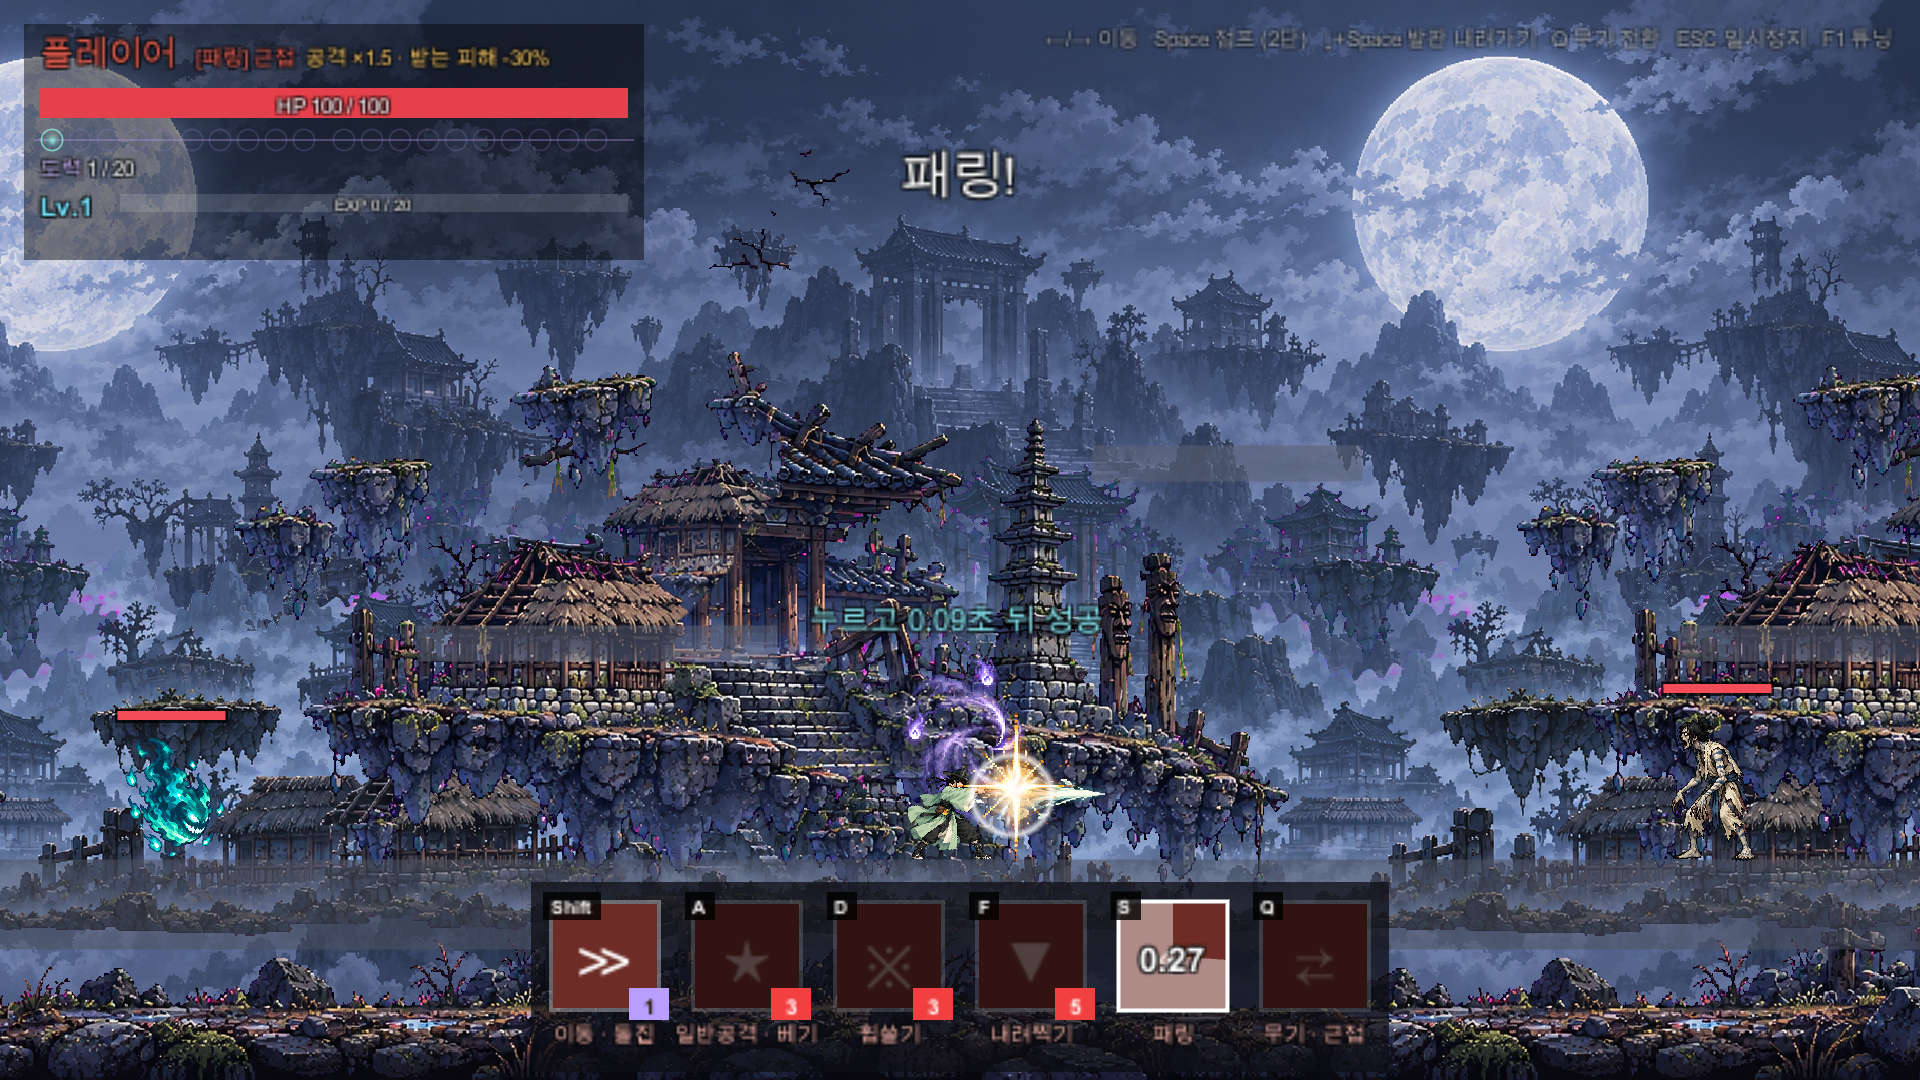
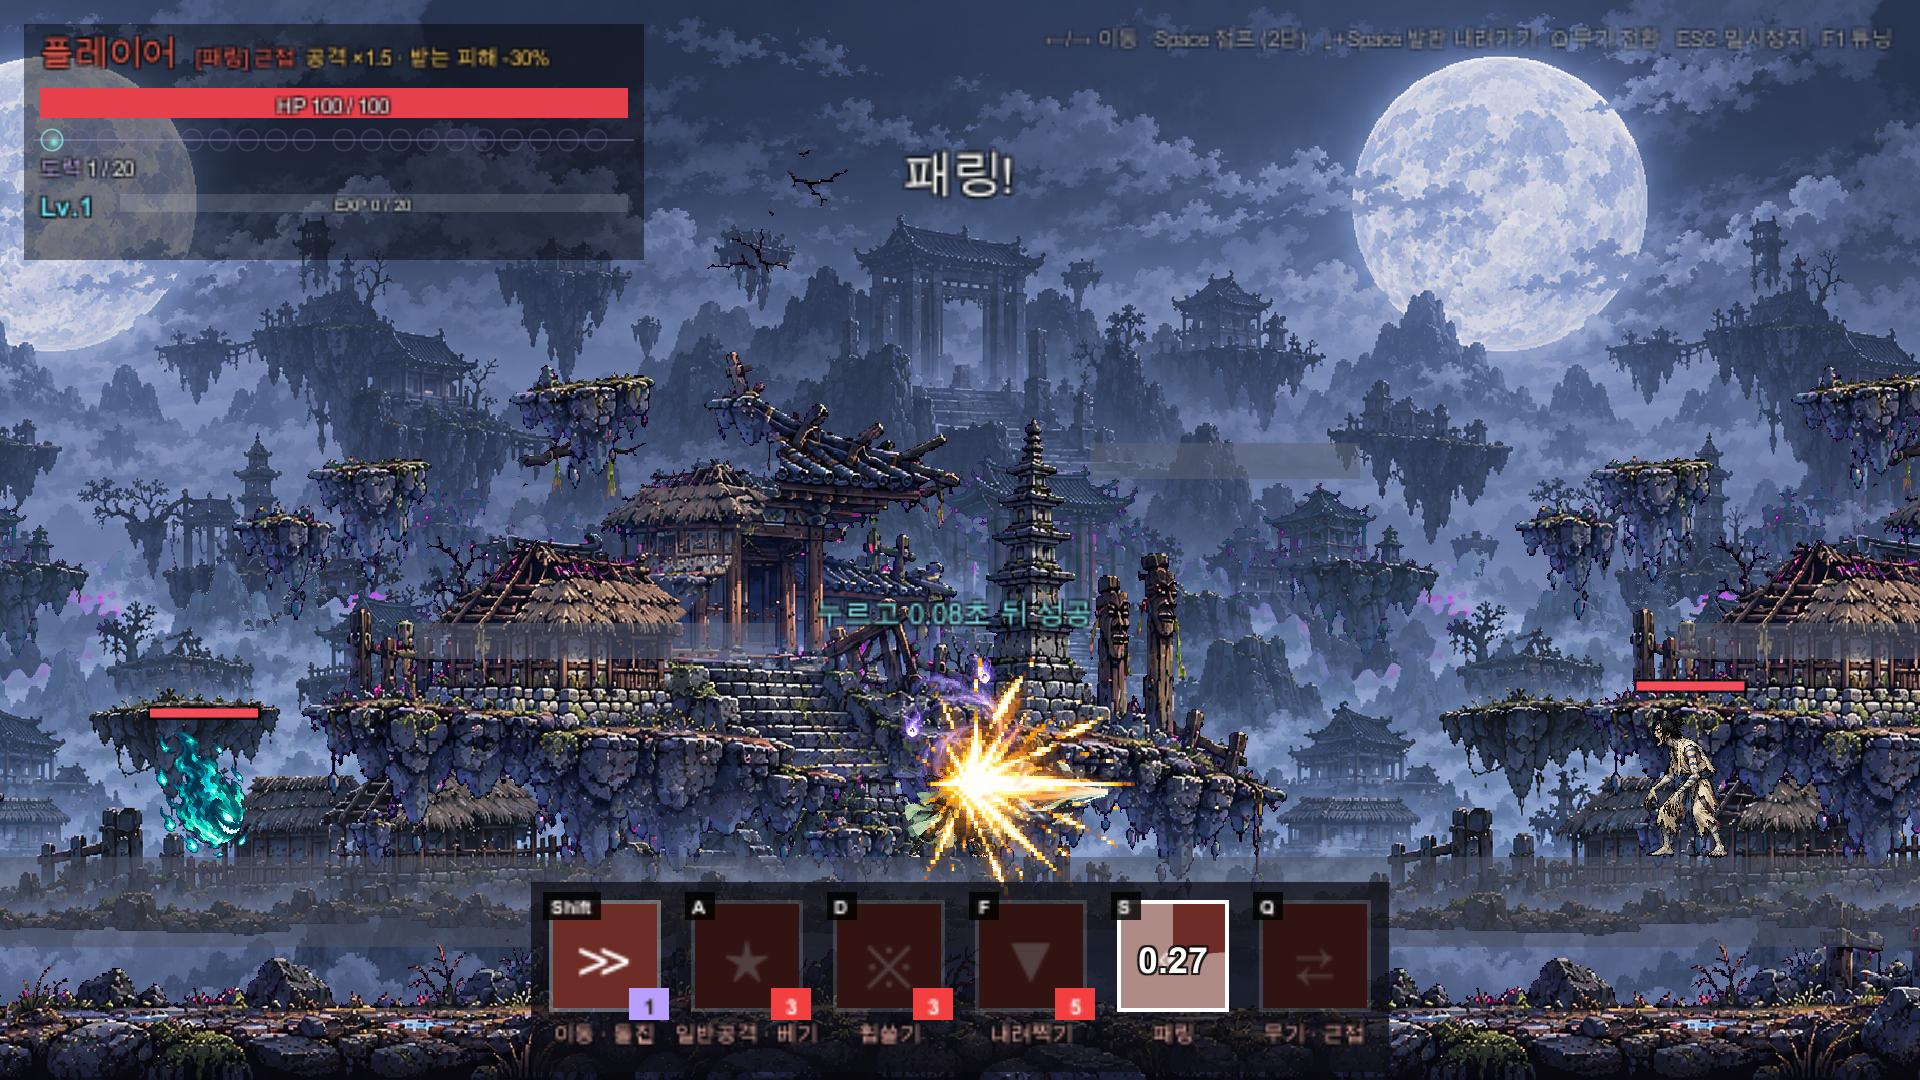
패링 이펙트 수정

diff --git a/Assets/Scripts/Player/PlayerCombat.cs b/Assets/Scripts/Player/PlayerCombat.cs
@@ -232,11 +232,9 @@ namespace ParryRL
         {
             Sfx.Play(perfect ? SfxId.PerfectParry : heavy ? SfxId.HeavyParry : SfxId.Parry);
             if (HitFeel.Instance != null) HitFeel.Instance.ParrySuccess(heavy);
-            Fx.Flash(hitPoint, heavy ? 1.2f : 0.7f, heavy ? 3.2f : 1.8f, Color.white, heavy ? 0.16f : 0.1f);
-            Fx.Ring(hitPoint, Color.white, 0.4f, heavy ? 3.5f : 2f, heavy ? 0.16f : 0.1f, heavy ? 0.3f : 0.2f);
             Fx.Sparks(hitPoint, heavy ? new Color(1f, 0.85f, 0.3f) : Color.white, heavy ? 22 : 12, heavy ? 12f : 8f);
             var art = GameAssets.AttackFx;
-            if (art != null) FxClip.PlayAt(IsRanged ? art.parryRanged : art.parryMelee, hitPoint, heavy ? 0.95f : 0.65f, false, 46);
+            if (art != null) FxClip.PlayAt(IsRanged ? art.parryRanged : art.parryMelee, hitPoint, heavy ? 1.5f : 1.05f, false, 46); // 둥근 섬광·고리 대신 패링 그림이 성공 이펙트
             // 성공 연출: 플레이어 몸 주변에 요기 흡수 (플레이어 뒤쪽 레이어)
             if (art != null) FxClip.PlayAt(art.yogiAbsorb, transform.position + Vector3.up * 0.7f, heavy ? 0.9f : 0.7f, false, 8);
             if (heavy) Hud.ScreenFlash(new Color(1f, 1f, 1f, 0.35f));

diff --git a/Assets/Scripts/Combat/SuccessEffects.cs b/Assets/Scripts/Combat/SuccessEffects.cs
@@ -51,7 +51,6 @@ namespace ParryRL
                     shake = p.shake * k, shakeDuration = p.shakeDuration,
                 });
             Fx.Sparks(hitPoint, color, Mathf.RoundToInt(18 * k), 11f * k);
-            Fx.Ring(hitPoint, color, 0.3f, 2.2f * k, 0.1f, 0.35f);
 
             if (_highlight != null) StopCoroutine(_highlight);
             _highlight = StartCoroutine(Highlight((p.hitStop + p.slowMotion) * k + 0.15f));
